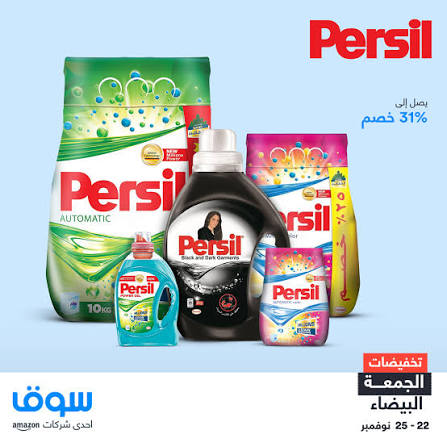
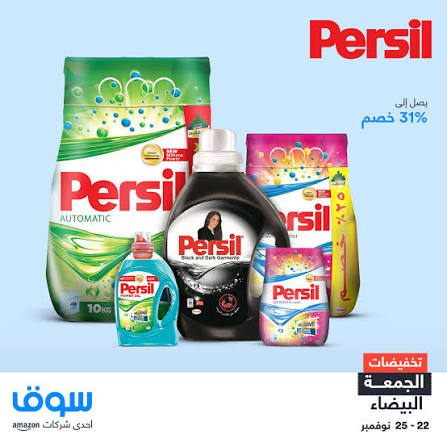
chore(cleanup): dead code + duplication + asset diet — deleted unused wisdoms.dart pool (live WisdomCalendar now has its own 3 tests), unified 7 copies of Firestore timestamp parsing into core/utils/firebase_ts.dart (tsToDateTime/tsOrNow), recompressed 17 JPEGs to display resolution keeping names+lo

diff --git a/lib/models/medical_models.dart b/lib/models/medical_models.dart
@@ -1,14 +1,7 @@
 import 'package:cloud_firestore/cloud_firestore.dart';
 import 'package:flutter/material.dart';
 
-DateTime? _parseTsOrNull(dynamic value) {
-  if (value == null) return null;
-  if (value is Timestamp) return value.toDate();
-  if (value is DateTime) return value;
-  if (value is int) return DateTime.fromMillisecondsSinceEpoch(value);
-  if (value is String) return DateTime.tryParse(value);
-  return null;
-}
+import '../core/utils/firebase_ts.dart';
 
 // ═══════════════════════ فصائل الدم ═══════════════════════
 enum BloodType {
@@ -99,7 +92,7 @@ class MedicalCenterClinic {
       fees: (json['fees'] as num?)?.toDouble() ?? 0,
       isActive: json['isActive'] as bool? ?? true,
       isApproved: json['isApproved'] as bool? ?? true,
-      updatedAt: _parseTsOrNull(json['updatedAt']),
+      updatedAt: tsToDateTime(json['updatedAt']),
     );
   }
 
@@ -193,7 +186,7 @@ class VillageClinic {
       isApproved: json['isApproved'] as bool? ?? false,
       submittedBy: json['submittedBy'] as String?,
       submittedByName: json['submittedByName'] as String?,
-      createdAt: _parseTsOrNull(json['createdAt']),
+      createdAt: tsToDateTime(json['createdAt']),
     );
   }
 
@@ -264,7 +257,7 @@ class Pharmacy {
       isApproved: json['isApproved'] as bool? ?? false,
       submittedBy: json['submittedBy'] as String?,
       submittedByName: json['submittedByName'] as String?,
-      createdAt: _parseTsOrNull(json['createdAt']),
+      createdAt: tsToDateTime(json['createdAt']),
     );
   }
 
@@ -356,7 +349,7 @@ class MedicalLab {
       isApproved: json['isApproved'] as bool? ?? false,
       submittedBy: json['submittedBy'] as String?,
       submittedByName: json['submittedByName'] as String?,
-      createdAt: _parseTsOrNull(json['createdAt']),
+      createdAt: tsToDateTime(json['createdAt']),
     );
   }
 
@@ -421,10 +414,10 @@ class BloodDonor {
       age: (json['age'] as num?)?.toInt() ?? 0,
       gender: json['gender'] as String? ?? '',
       address: json['address'] as String? ?? '',
-      lastDonation: _parseTsOrNull(json['lastDonation']),
+      lastDonation: tsToDateTime(json['lastDonation']),
       isAvailable: json['isAvailable'] as bool? ?? true,
       isApproved: json['isApproved'] as bool? ?? false,
-      createdAt: _parseTsOrNull(json['createdAt']),
+      createdAt: tsToDateTime(json['createdAt']),
     );
   }
 
@@ -492,7 +485,7 @@ class BloodRequest {
       notes: json['notes'] as String? ?? '',
       status: json['status'] as String? ?? 'open',
       isApproved: json['isApproved'] as bool? ?? false,
-      createdAt: _parseTsOrNull(json['createdAt']),
+      createdAt: tsToDateTime(json['createdAt']),
     );
   }
 

diff --git a/lib/models/village_content_models.dart b/lib/models/village_content_models.dart
@@ -1,14 +1,7 @@
 import 'package:cloud_firestore/cloud_firestore.dart';
 import 'package:flutter/material.dart';
 
-DateTime? _parseTs(dynamic value) {
-  if (value == null) return null;
-  if (value is Timestamp) return value.toDate();
-  if (value is DateTime) return value;
-  if (value is int) return DateTime.fromMillisecondsSinceEpoch(value);
-  if (value is String) return DateTime.tryParse(value);
-  return null;
-}
+import '../core/utils/firebase_ts.dart';
 
 // ═══════════════ حقبة تاريخية (village_history) ═══════════════
 class HistoryEra {
@@ -38,7 +31,7 @@ class HistoryEra {
         narrative: j['narrative'] as String? ?? '',
         imageUrl: j['imageUrl'] as String? ?? '',
         sortOrder: (j['sortOrder'] as num?)?.toInt() ?? 0,
-        createdAt: _parseTs(j['createdAt']),
+        createdAt: tsToDateTime(j['createdAt']),
       );
 
   Map<String, dynamic> toJson() => {
@@ -139,7 +132,7 @@ class VillageFigure {
         bio: j['bio'] as String? ?? '',
         photoUrl: j['photoUrl'] as String? ?? '',
         sortOrder: (j['sortOrder'] as num?)?.toInt() ?? 0,
-        createdAt: _parseTs(j['createdAt']),
+        createdAt: tsToDateTime(j['createdAt']),
       );
 
   Map<String, dynamic> toJson() => {
@@ -197,7 +190,7 @@ class VillageArchivePhoto {
         description: j['description'] as String? ?? '',
         source: j['source'] as String? ?? '',
         imageUrl: j['imageUrl'] as String? ?? '',
-        createdAt: _parseTs(j['createdAt']),
+        createdAt: tsToDateTime(j['createdAt']),
       );
 
   Map<String, dynamic> toJson() => {
@@ -316,7 +309,7 @@ class VillageInstitution {
         imageUrls:
             (j['imageUrls'] as List<dynamic>?)?.cast<String>() ?? const [],
         sortOrder: (j['sortOrder'] as num?)?.toInt() ?? 0,
-        createdAt: _parseTs(j['createdAt']),
+        createdAt: tsToDateTime(j['createdAt']),
       );
 
   Map<String, dynamic> toJson() => {

diff --git a/lib/models/market_extra_models.dart b/lib/models/market_extra_models.dart
@@ -1,13 +1,7 @@
 import 'package:cloud_firestore/cloud_firestore.dart';
 import 'package:flutter/material.dart';
 
-DateTime _parseTs(dynamic value) {
-  if (value is Timestamp) return value.toDate();
-  if (value is DateTime) return value;
-  if (value is int) return DateTime.fromMillisecondsSinceEpoch(value);
-  if (value is String) return DateTime.tryParse(value) ?? DateTime.now();
-  return DateTime.now();
-}
+import '../core/utils/firebase_ts.dart';
 
 // ═══════════════════════ SHOP (محلات القرية) ═══════════════════════
 /// المتجر هو منصة تسويقية لصاحبها؛ منتجاته تُربط عبر ownerUid (نفس sellerId).
@@ -63,7 +57,7 @@ class Shop {
       ownerSellerType: json['ownerSellerType'] as String?,
       isActive: json['isActive'] as bool? ?? true,
       isApproved: json['isApproved'] as bool? ?? false,
-      createdAt: json['createdAt'] != null ? _parseTs(json['createdAt']) : null,
+      createdAt: json['createdAt'] != null ? tsOrNow(json['createdAt']) : null,
     );
   }
 
@@ -156,7 +150,7 @@ class BuyRequest {
       status: json['status'] as String? ?? 'open',
       userRole: json['userRole'] as String?,
       userSellerType: json['userSellerType'] as String?,
-      createdAt: json['createdAt'] != null ? _parseTs(json['createdAt']) : null,
+      createdAt: json['createdAt'] != null ? tsOrNow(json['createdAt']) : null,
     );
   }
 
@@ -225,7 +219,7 @@ class Donation {
       status: json['status'] as String? ?? 'available',
       userRole: json['userRole'] as String?,
       userSellerType: json['userSellerType'] as String?,
-      createdAt: json['createdAt'] != null ? _parseTs(json['createdAt']) : null,
+      createdAt: json['createdAt'] != null ? tsOrNow(json['createdAt']) : null,
     );
   }
 

diff --git a/test/services/alert_service_test.dart b/test/services/alert_service_test.dart
@@ -1,7 +1,7 @@
 import 'package:cloud_firestore/cloud_firestore.dart';
 import 'package:fake_cloud_firestore/fake_cloud_firestore.dart';
 import 'package:flutter_test/flutter_test.dart';
-import 'package:qurity/core/constants/wisdoms.dart';
+import 'package:qurity/core/constants/wisdom_calendar.dart';
 import 'package:qurity/models/village_alert.dart';
 import 'package:qurity/services/alert_service.dart';
 
@@ -107,22 +107,24 @@ void main() {
     });
   });
 
-  group('TodayWisdom', () {
-    test('pick is stable within the same day', () {
-      expect(TodayWisdom.pick(), TodayWisdom.pick());
+  group('WisdomCalendar', () {
+    test('same date returns the same wisdom', () {
+      final d = DateTime(2026, 9, 15);
+      expect(WisdomCalendar.of(d).text, WisdomCalendar.of(d).text);
+      expect(WisdomCalendar.of(d).text, isNotEmpty);
     });
 
-    test('pick offsets cycle inside list bounds', () {
-      for (var i = 0; i < TodayWisdom.items.length + 3; i++) {
-        final w = TodayWisdom.pick(offset: i);
-        expect(TodayWisdom.items, contains(w));
-        expect(w, isNotEmpty);
+    test('every day of 2026 yields a non-empty wisdom', () {
+      for (var day = 0; day < 365; day++) {
+        final w = WisdomCalendar.of(DateTime(2026).add(Duration(days: day)));
+        expect(w.text.trim(), isNotEmpty);
       }
     });
 
-    test('inventory is broad and non-duplicated', () {
-      expect(TodayWisdom.items.length, greaterThanOrEqualTo(140));
-      expect(TodayWisdom.items.toSet().length, TodayWisdom.items.length);
+    test('Feb 29 falls back to Feb 28', () {
+      final leap = WisdomCalendar.of(DateTime(2028, 2, 29));
+      final feb28 = WisdomCalendar.of(DateTime(2028, 2, 28));
+      expect(leap.text, feb28.text);
     });
   });
 }

diff --git a/lib/models/promo_model.dart b/lib/models/promo_model.dart
@@ -1,13 +1,5 @@
 import 'package:cloud_firestore/cloud_firestore.dart';
-
-DateTime? _parseTs(dynamic value) {
-  if (value == null) return null;
-  if (value is Timestamp) return value.toDate();
-  if (value is DateTime) return value;
-  if (value is int) return DateTime.fromMillisecondsSinceEpoch(value);
-  if (value is String) return DateTime.tryParse(value);
-  return null;
-}
+import '../core/utils/firebase_ts.dart';
 
 /// إعلان دعائي منبثق يظهر فوق الشاشات (مجموعة promos).
 /// linkType: none | app | url | whatsapp | facebook | instagram | youtube | telegram | tiktok
@@ -67,14 +59,14 @@ class Promo {
       linkType: json['linkType'] as String? ?? 'none',
       linkValue: json['linkValue'] as String? ?? '',
       showOnce: json['showOnce'] as bool? ?? true,
-      startsAt: _parseTs(json['startsAt']) ?? DateTime.now(),
-      endsAt: _parseTs(json['endsAt']) ?? DateTime.now(),
+      startsAt: tsToDateTime(json['startsAt']) ?? DateTime.now(),
+      endsAt: tsToDateTime(json['endsAt']) ?? DateTime.now(),
       isActive: json['isActive'] as bool? ?? true,
       playSound: json['playSound'] as bool? ?? false,
       vibrate: json['vibrate'] as bool? ?? false,
       version: (json['version'] as num?)?.toInt() ?? 1,
       createdBy: json['createdBy'] as String? ?? '',
-      createdAt: _parseTs(json['createdAt']),
+      createdAt: tsToDateTime(json['createdAt']),
     );
   }
 

diff --git a/lib/models/lost_item_model.dart b/lib/models/lost_item_model.dart
@@ -1,14 +1,7 @@
 import 'package:cloud_firestore/cloud_firestore.dart';
 import 'package:flutter/material.dart';
 
-DateTime? _parseTs(dynamic value) {
-  if (value == null) return null;
-  if (value is Timestamp) return value.toDate();
-  if (value is DateTime) return value;
-  if (value is int) return DateTime.fromMillisecondsSinceEpoch(value);
-  if (value is String) return DateTime.tryParse(value);
-  return null;
-}
+import '../core/utils/firebase_ts.dart';
 
 /// لون خدمة «المفقودات» المميز — لا يتكرر مع أي خدمة أخرى في الدليل.
 const Color kLostItemsColor = Color(0xFF5E35B1);
@@ -55,14 +48,14 @@ class LostItem {
       type: json['type'] as String? ?? 'lost',
       description: json['description'] as String? ?? '',
       location: json['location'] as String? ?? '',
-      date: _parseTs(json['date']),
+      date: tsToDateTime(json['date']),
       phone: json['phone'] as String? ?? '',
       imageUrl: json['imageUrl'] as String? ?? '',
       userId: json['userId'] as String? ?? '',
       userName: json['userName'] as String? ?? '',
       isResolved: json['isResolved'] as bool? ?? false,
       isApproved: json['isApproved'] as bool? ?? false,
-      createdAt: _parseTs(json['createdAt']),
+      createdAt: tsToDateTime(json['createdAt']),
     );
   }
 

diff --git a/lib/models/service_provider_model.dart b/lib/models/service_provider_model.dart
@@ -1,14 +1,7 @@
 import 'package:cloud_firestore/cloud_firestore.dart';
 import 'package:flutter/material.dart';
 
-DateTime? _parseTsOrNull(dynamic value) {
-  if (value == null) return null;
-  if (value is Timestamp) return value.toDate();
-  if (value is DateTime) return value;
-  if (value is int) return DateTime.fromMillisecondsSinceEpoch(value);
-  if (value is String) return DateTime.tryParse(value);
-  return null;
-}
+import '../core/utils/firebase_ts.dart';
 
 /// فئات دليل الخدمات العامة.
 class ServiceCategory {
@@ -181,7 +174,7 @@ class ServiceProvider {
       ratingCount: (json['ratingCount'] as num?)?.toInt() ?? 0,
       submittedBy: json['submittedBy'] as String?,
       submittedByName: json['submittedByName'] as String?,
-      createdAt: _parseTsOrNull(json['createdAt']),
+      createdAt: tsToDateTime(json['createdAt']),
     );
   }
 
@@ -269,7 +262,7 @@ class ServiceProviderComment {
       photoUrl: json['userPhotoUrl'] as String?,
       rating: (json['rating'] as num?)?.toInt() ?? 0,
       text: json['text'] as String? ?? '',
-      createdAt: _parseTsOrNull(json['createdAt']),
+      createdAt: tsToDateTime(json['createdAt']),
     );
   }
 

diff --git a/lib/models/village_alert.dart b/lib/models/village_alert.dart
@@ -1,5 +1,7 @@
 import 'package:cloud_firestore/cloud_firestore.dart';
 
+import '../core/utils/firebase_ts.dart';
+
 /// مستويات ظهور التنبيه/الخبر العاجل (تحددها لوحة الأدمن):
 /// display = عرض على الشاشة فقط — push = + إشعار لجميع المشتركين —
 /// sound = + صوت واهتزاز عند ظهور البانر داخل التطبيق.
@@ -31,15 +33,13 @@ class VillageAlert {
   });
 
   factory VillageAlert.fromJson(Map<String, dynamic> json) {
-    final raw = json['updatedAt'];
-    final expires = json['expiresAt'];
     return VillageAlert(
       message: (json['message'] as String? ?? '').trim(),
       isActive: json['isActive'] as bool? ?? false,
       mode: json['mode'] as String? ?? VillageAlertMode.push,
-      expiresAt: expires is Timestamp ? expires.toDate() : null,
+      expiresAt: tsToDateTime(json['expiresAt']),
       updatedBy: json['updatedBy'] as String?,
-      updatedAt: raw is Timestamp ? raw.toDate() : null,
+      updatedAt: tsToDateTime(json['updatedAt']),
     );
   }
 

diff --git a/lib/core/utils/firebase_ts.dart b/lib/core/utils/firebase_ts.dart
@@ -1,0 +1,14 @@
+import 'package:cloud_firestore/cloud_firestore.dart';
+
+/// تحويل قيم Firestore (Timestamp/int/String/DateTime) إلى DateTime أو null.
+DateTime? tsToDateTime(dynamic value) {
+  if (value == null) return null;
+  if (value is Timestamp) return value.toDate();
+  if (value is DateTime) return value;
+  if (value is int) return DateTime.fromMillisecondsSinceEpoch(value);
+  if (value is String) return DateTime.tryParse(value);
+  return null;
+}
+
+/// النسخة غير القابلة لـ null — ترجع الوقت الحالي عند الفقد/التعذر.
+DateTime tsOrNow(dynamic value) => tsToDateTime(value) ?? DateTime.now();
